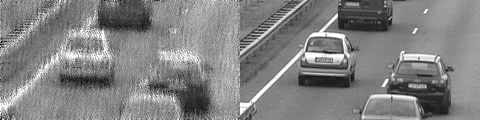
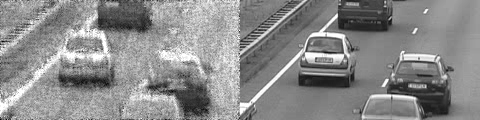
Updated Q2 (again) - no improvement

Changed region(s): [[0.0, 0.0, 0.5, 1.0]]

diff --git a/MATLAB/q2.m b/MATLAB/q2.m
@@ -46,23 +46,21 @@ D1 = dctmtx(8);
 D2 = kron(D1, D1);
 psi = kron(D2, dctmtx(T));
 
-R = zeros(H,W,T,'double');
-avg_mat = zeros(H,W,'double');
+R = zeros(H, W, T, 'double');
+avg_mat = zeros(H, W, 'double');
 
 % for i=1:H/8
 %     for j=1:W/8
 %         y = reshape(E(8*(i-1)+1:8*i,8*(j-1)+1:8*j), [8*8 1]);
 % 
-%         phi = zeros(8*8*T, 8*8, 'double');
+%         phi = zeros(8*8, 8*8*T, 'double');
 %         for k=1:T
-%             phi(8*8*(k-1)+1:8*8*k,:) = diag(reshape(C(8*(i-1)+1:8*i,8*(j-1)+1:8*j,k), [8*8 1]));
+%             phi(:,8*8*(k-1)+1:8*8*k) = diag(reshape(C(i:i+7,j:j+7,k), [8*8 1]));
 %         end
 %         
-%         x = omp(phi.'*psi, y, 40);
-% %         x = omp_e(phi.'*psi, y, noise_std^2);
+%         x = omp_e(phi*psi, y, noise_std^2);
 %         R(8*(i-1)+1:8*i,8*(j-1)+1:8*j,:) = reshape(psi*x, [8 8 T]);
 %         
-% %         finish;
 %     end
 % end
 
@@ -71,13 +69,13 @@ for i=1:H-7
     for j=1:W-7
         y = reshape(E(i:i+7,j:j+7), [8*8 1]);
 
-        phi = zeros(8*8*T, 8*8, 'double');
+        phi = zeros(8*8, 8*8*T, 'double');
         for k=1:T
-            phi(8*8*(k-1)+1:8*8*k,:) = diag(reshape(C(i:i+7,j:j+7,k), [8*8 1]));
+            phi(:,8*8*(k-1)+1:8*8*k) = diag(reshape(C(i:i+7,j:j+7,k), [8*8 1]));
         end
         
 %         x = omp(phi.'*psi, y, 20);
-        x = omp_e(phi'*psi, y, 9*8*8*noise_std^2);
+        x = omp_e(phi*psi, y, 9*8*8*noise_std^2);
         R(i:i+7,j:j+7,:) = R(i:i+7,j:j+7,:) + reshape(psi*x, [8 8 T]);
         avg_mat(i:i+7,j:j+7) = avg_mat(i:i+7,j:j+7) + ones(8,8);
         i, j

diff --git a/MATLAB/prac.m b/MATLAB/prac.m
@@ -1,0 +1,16 @@
+clc;
+clear;
+close all;
+
+addpath("MMread");
+rng(20);
+
+video = mmread('../data/cars.avi');
+
+I = reshape(cast(rgb2gray(video.frames(1).cdata(171:200, 171:200, :)), 'double'), [900 1]);
+
+% D1 = dctmtx(288);
+D2 = kron(dctmtx(30), dctmtx(30));
+% D2 = dctmtx(900);
+
+plot(sort(abs(D2*I)));
